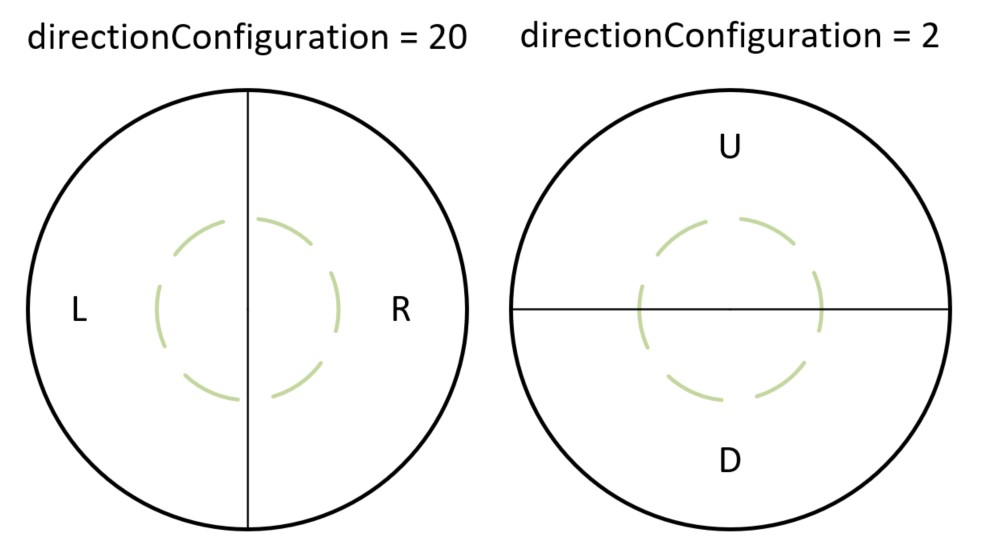
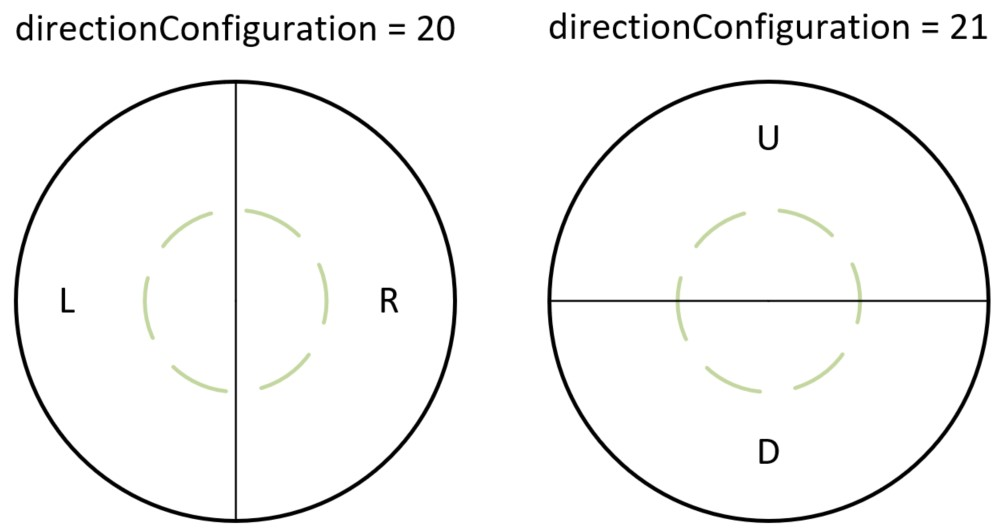
updated direction code

diff --git a/FlexJoystick.js b/FlexJoystick.js
@@ -442,8 +442,8 @@ class FlexJoystick {
      * @returns stick current direction as a string.
      */
     getDirection(directionConfiguration) {
-        if (this.#joystickType == "round" && directionConfiguration != 8 && directionConfiguration != 4 && directionConfiguration != 2 && directionConfiguration != 20) {
-            return this.#getRoundDirection(directionConfiguration);
+        if (this.#joystickType == "round" && directionConfiguration != 4 && directionConfiguration != 20 && directionConfiguration != 21) {
+            return this.#getRoundDirection(8);
         }
 
         if (this.#joystickType == "long") {
@@ -453,7 +453,7 @@ class FlexJoystick {
             return this.#getWideDirection();
         }
 
-        if (directionConfiguration === 2) {
+        if (directionConfiguration === 21) {
             return this.#getLongDirection();
         }
         else if (directionConfiguration === 20) {

diff --git a/README.md b/README.md
@@ -164,7 +164,7 @@ There is a couple of options for the **directionConfiguration** parameter when m
 <img src="https://github.com/Trimple/FlexJoystick/blob/main/images/directionConfiguration_2_2.jpg" alt="directionConfiguration_2_2" width="80%">
 </p>
 
-The default mode for round joystick is 8 directions.
+The default mode for the **"round"** joystick is 8 directions.
 
 ### Disable content selection while holding the Joystick 
 
